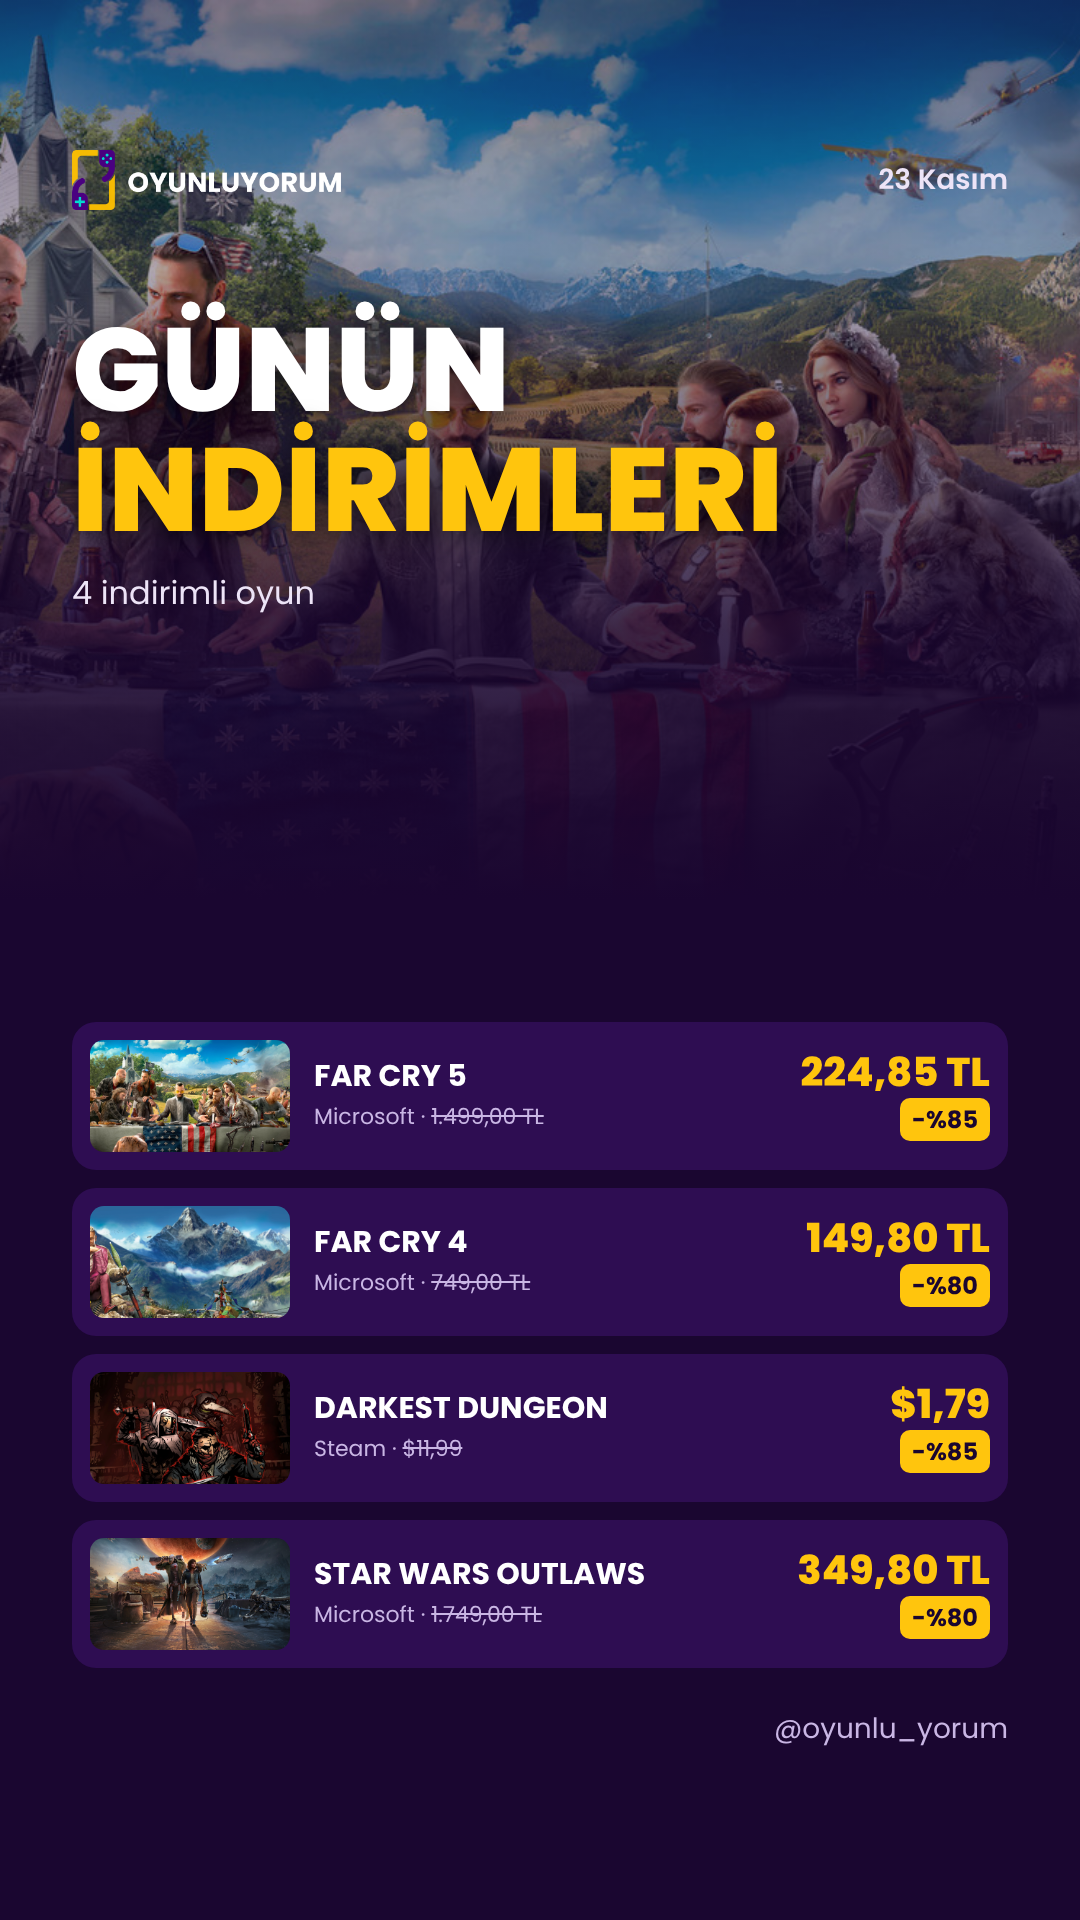
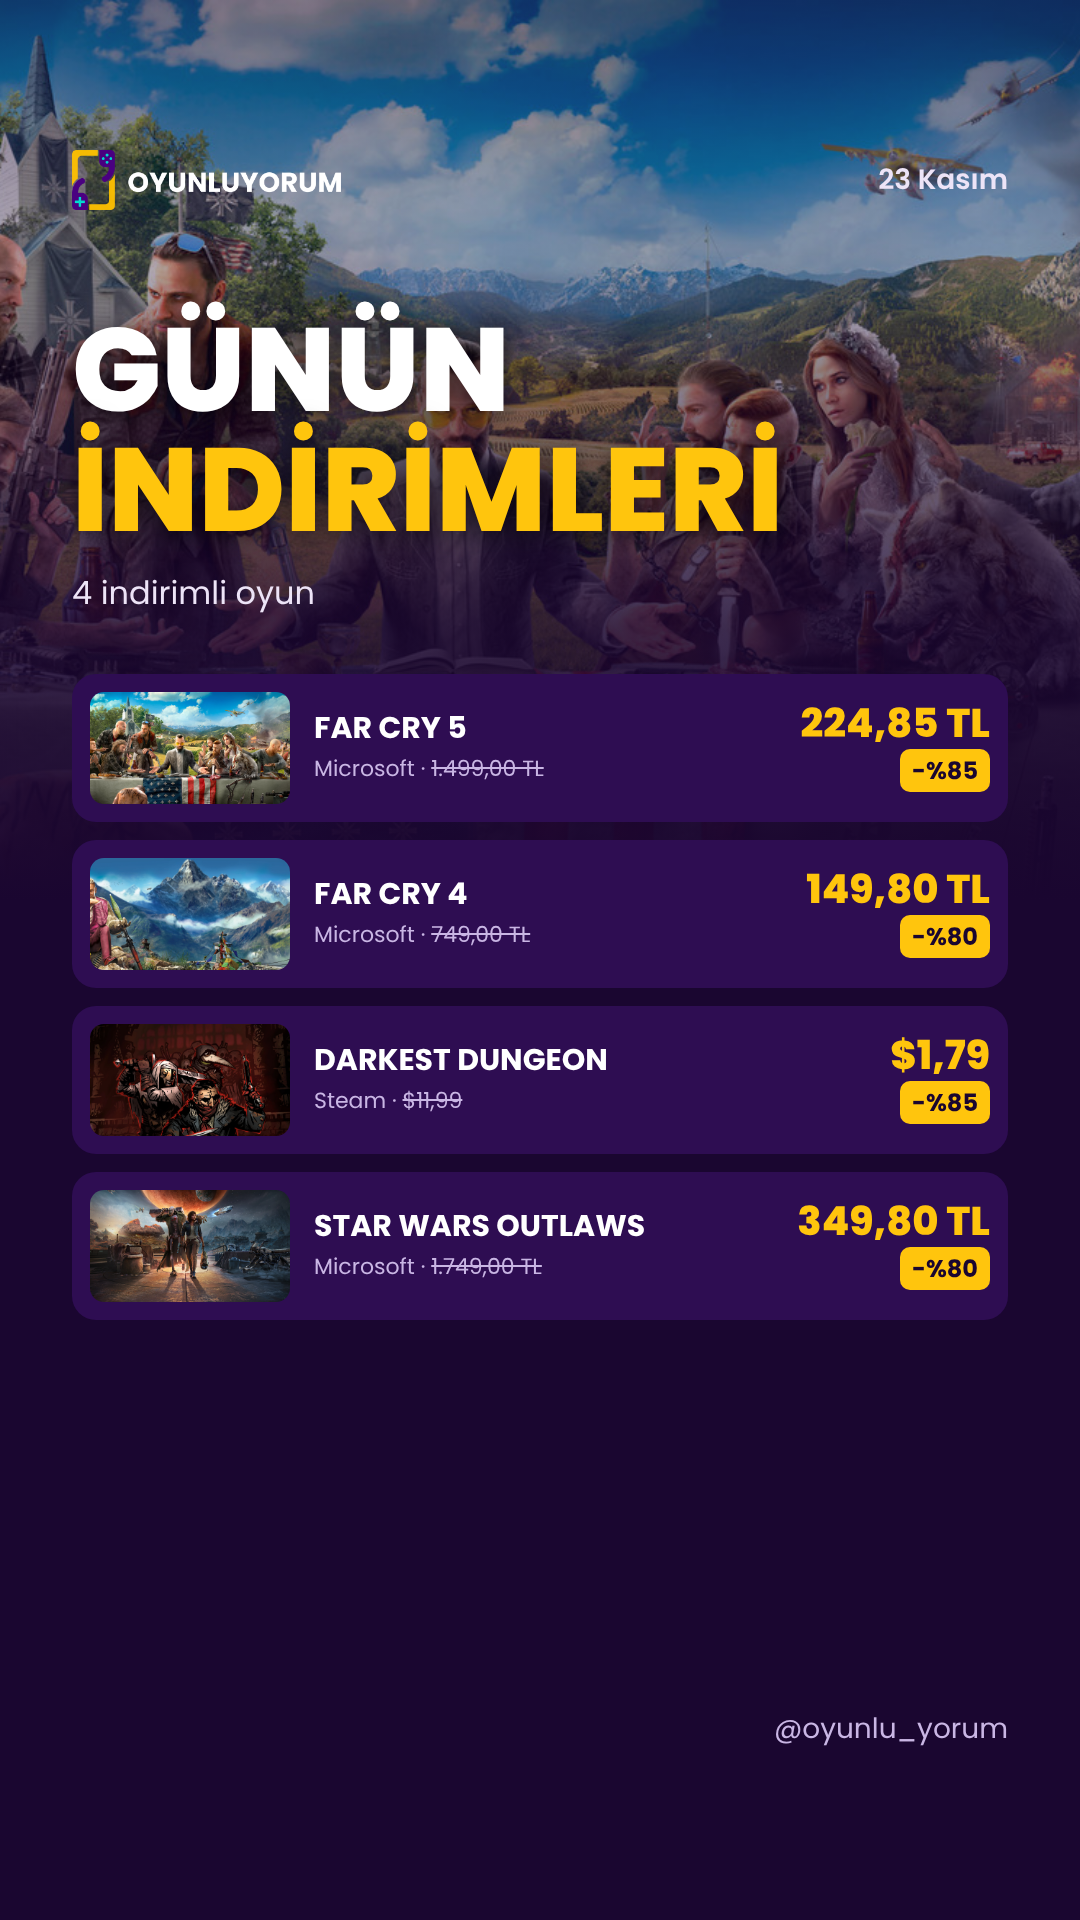
Story: kutuları başlığın altına al, boşluğu alta bırak
Az oyunlu günlerde başlık ile liste arasında boşluk kalıyordu.

Claude-Session: https://claude.ai/code/session_01Cfy9VjpWFQnCEHgpFazmxb

diff --git a/tools/render_story.py b/tools/render_story.py
@@ -99,9 +99,9 @@ body{{margin:0}}</style></head><body>
 <div style="position:relative;display:flex;flex-direction:column;gap:20px;margin-top:60px">
 <h1 style="margin:0;font-family:{COND};font-weight:800;font-size:118px;line-height:1.02;text-transform:uppercase;text-shadow:0 4px 24px rgba(0,0,0,.6)">Günün<br><span style="color:{ACCENT}">indirimleri</span></h1>
 <p style="margin:0;font-size:32px;line-height:1.35;color:#EDE4F7">{e(d.get("subtitle"))}</p></div>
-<div style="position:relative;display:flex;flex-direction:column;gap:18px;margin-top:auto">
+<div style="position:relative;display:flex;flex-direction:column;gap:18px;margin-top:20px">
 {rows}</div>
-<div style="position:relative;display:flex;justify-content:flex-end;align-items:center">
+<div style="position:relative;display:flex;justify-content:flex-end;align-items:center;margin-top:auto">
 <div style="font-size:28px;color:#C9B6E4">@oyunlu_yorum</div></div>
 </div></body></html>'''
 
